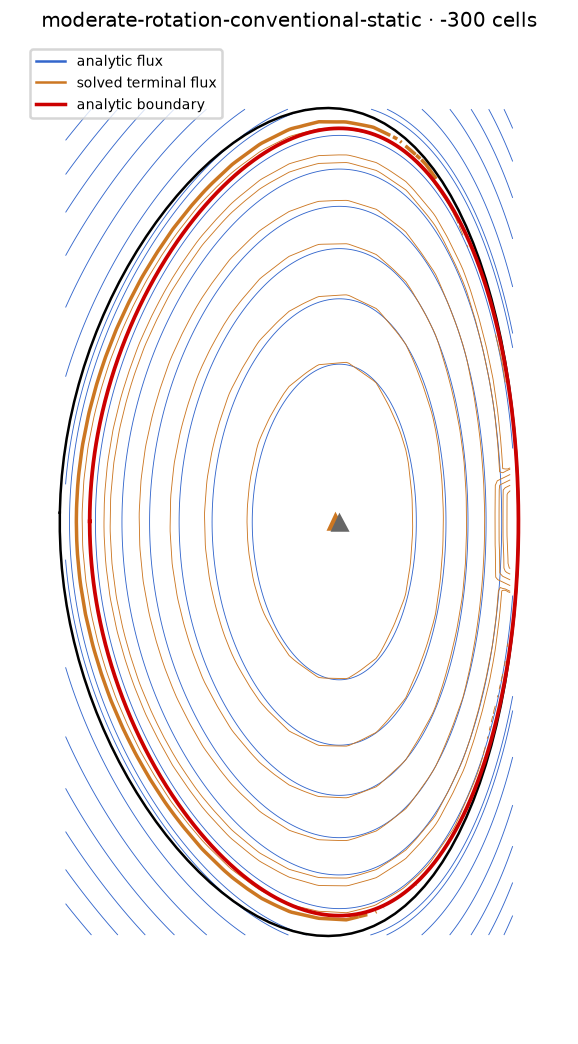
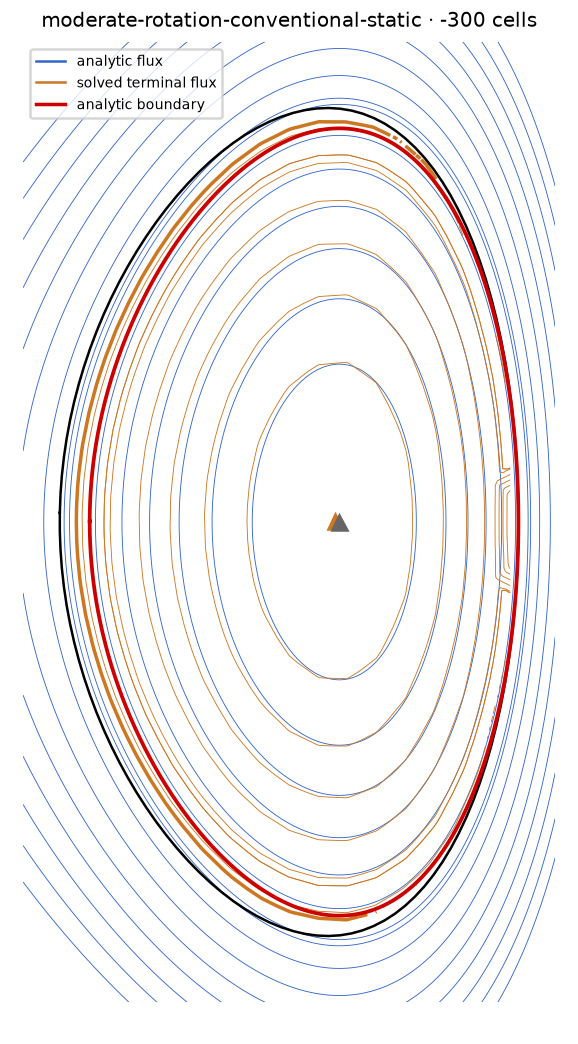
docs(evidence): regenerate the moderate-rotation figures and reconcile the receipt
The moderate-rotation certificate rungs are re-rendered on all_debug with the
widened analytic grid; their boundary-flux contours close (endpoint gap
0.0 m).  The certificate receipt is reconciled back into its curated shape:
provenance keys (record, figure, render_job) are restored per rung, the
curated scrollback sections (error locality, boundary-cut cells, affine round
trip, cold start) are preserved, and each of the six static rungs now carries
the measured closed-contour endpoint gap.  The evidence document gains the
closed-contour statement, the solved-terminal-axis explanation for the clip
panels, and the committed-renderer import note.

diff --git a/docs/evidence/forward-gs-contour-evidence.html b/docs/evidence/forward-gs-contour-evidence.html
@@ -37,6 +37,7 @@
     <h2>Retained Solovev certificate</h2>
     <p><strong>The magnetic-axis error grows under refinement:</strong> on the exact-oracle weak-rotation case it is 13.352807 mm at 110 requested cells and 30.247708 mm at 300. A convergent spatial and nonlinear solve would instead drive that position error toward zero as resolution increases; growth is stronger evidence of a wrong terminal state than either residual in isolation. The 500- and 1000-cell replays continue the trend at 52.413422 mm and 62.655666 mm.</p>
     <p>The retained H200 receipt <code>job 1267132</code> gives six terminal states. It records every one as <strong>converged = false</strong>; the maps are therefore diagnostic terminal fields, not promoted accuracy evidence. Each replayed contour uses the retained terminal residual below. All retained rungs are listed so no non-converged row is silently omitted while its individual contour render completes.</p>
+    <p><strong>The analytic contours are closed rings on a widened grid.</strong> The analytic field is drawn on a grid spanning the closed-form boundary and the wall rather than the plasma-node extent, so its zero-flux loop is a closed curve on every static rung: the measured endpoint gap of the extracted boundary-flux contour is 0.0 m on all six. On a grid truncated to the plasma nodes the loop stops at the grid edge with gaps of 0.53–1.94 m, which reads as an open analytic separatrix — a render artifact, not physics.</p>
     <table>
       <thead><tr><th>case</th><th>requested cells</th><th>retained residual</th><th>converged</th></tr></thead>
       <tbody>
@@ -95,6 +96,7 @@
     <h2>Boundary-cut hexagonal supports</h2>
     <p><strong>These figures are deliberately coupled to unmerged revision <code>7cc2e06f518bdd0a7b8806983470f972659df4ec</code>.</strong> They are rendered read-only from the held <code>nia-clipped-moment-repair</code> worktree and written here; neither that worktree nor Nova source was modified. The refusal that rejects an unqualified topology trial, and the clipping repair that produced these measurements, remain unmerged pending the lead decision about how iteration proceeds when a trial cannot provide an axis-normalised current. The two otherwise available choices are both known-bad: consuming the unqualified axis produces the NaN source amplitude reproduced on main by job 1267281, while carrying the previous qualified axis silently corrupted three certificate rungs. That main failure is therefore not a renderer fault; it faithfully exposes the defect the held work repairs.</p>
     <p>The held receipt establishes why the geometry matters: every boundary-cut cell agrees on both physical current and centroid—8 of 8 on the diverted 110 rung and 20 of 20 on 342—with net-current relative error exactly zero on both. The coloured cell in each panel is the straight-edged support handed to <code>draw_plasma_cells</code>; the complete hexagon is only a grey provenance outline. The analytic separatrix is drawn across the same cells. A disagreement would appear as the blue physical-moment centroid outside its own clipped cell or on the wrong side of the separatrix, rather than coincident with the black direct-clipped centroid.</p>
+    <p>The solid triangle in each clip panel marks the solved terminal magnetic axis — the topology read of the non-converged terminal field. The renderer now labels this marker as <strong>solved terminal axis</strong> in the panel legend; these figures are pinned to the unmerged clip repair, so they carry that label when they are re-rendered after the repair lands. The marker uses the converged-axis vocabulary but is the solver's terminal position here, not a promoted equilibrium axis; the strict terminal residual given in each caption is the companion qualification.</p>
     <p>The calculation is intentionally mixed order. Each crossing on an atomic edge is a linear interpolation of flux on that edge, and the support is the polygon through those crossings. Area and current moments are analytic for that polygon and exact for cellwise-linear current density; <code>observation.clipped_support_quadrature</code> then fans the support into triangles under degree-fifteen Duffy quadrature. Thus the integration degree is fifteen while the boundary representation is first order. The plotted clip stays straight because that is what is computed, and the separately traced analytic separatrix makes the geometric discrepancy visible.</p>
     <figure>
       <img src="/nova/figures/null-identification-authority/gs-contour-evidence/clipped-cells-110.png" alt="Eight boundary-cut supports on the diverted 110-cell rung, showing complete hexagon outlines, straight clipped polygons, analytic separatrix, wall, contained nulls and coincident physical and direct centroids.">
@@ -162,7 +164,7 @@
 
   <section id="provenance">
     <h2>Provenance and limits</h2>
-    <p>Rendering uses the retained certificate parameters with CPU float64 asserted before array construction, on the <code>all_debug</code> partition. The machine-readable figure receipt is <code>docs/figures/null-identification-authority/gs-contour-evidence/contour-evidence-receipt.json</code>. The certificate residual and convergence statements come from the H200 receipt; a current replay only provides the drawable terminal field and does not relabel a non-converged row as qualified.</p>
+    <p>Rendering uses the retained certificate parameters with CPU float64 asserted before array construction, on the <code>all_debug</code> partition. The renderer loads its implementation source from the committed figure tree (<code>mechanism-evidence/render_mechanism_evidence.py</code>), never an unmerged worktree path, and draws the analytic field on a grid widened to the boundary and wall extent so every static zero-flux contour closes. The machine-readable figure receipt is <code>docs/figures/null-identification-authority/gs-contour-evidence/contour-evidence-receipt.json</code>. The certificate residual and convergence statements come from the H200 receipt; a current replay only provides the drawable terminal field and does not relabel a non-converged row as qualified.</p>
   </section>
 </main>
 </body>
